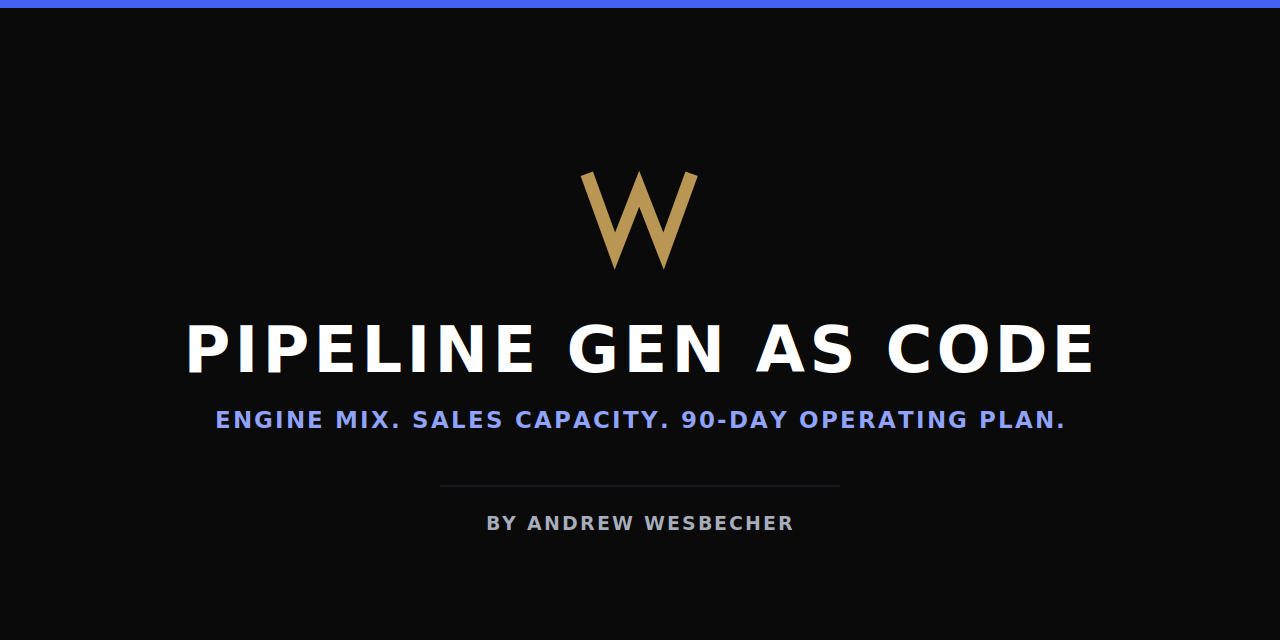
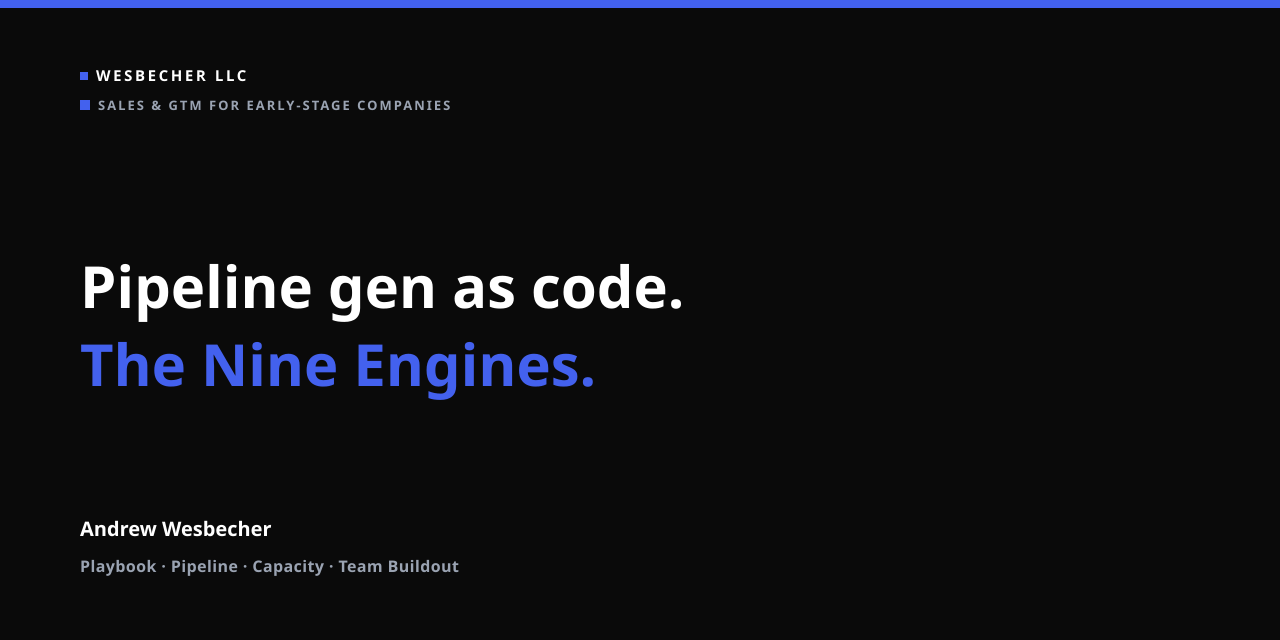
Restyle README diagrams to match wesbecher.llc
Replace the gold-W lockup with the site OG structure, add the
/pipeline/ two-clock portfolio map, and swap the mermaid for a
square-card flow. No model or version change.

diff --git a/README.md b/README.md
@@ -206,6 +206,8 @@ companies run each one, and the numbers that say each is working,
 with each claim indexed to a source or labeled an operator heuristic
 in [docs/SOURCES.md](docs/SOURCES.md).
 
+<img src="assets/portfolio.svg" alt="The nine engines by time to turn on: this quarter versus months to instrument. This model does not convert engine spend into meetings." width="100%">
+
 | # | Engine | Runs when (the model's rule) |
 |---|--------|------------------------------|
 | 01 | [Automated Outbound](playbook/01-automated-outbound.md) | Nearly always; needs one owner |
@@ -231,18 +233,7 @@ several benchmark figures this repository has since corrected. Where
 the two disagree, the repository is right. The page is being brought
 into line.
 
-```mermaid
-flowchart LR
-    P["company/params.yaml<br/>validated, schema v1"] --> M["engine/mix.cjs<br/>nine verdicts + exact split"]
-    P --> C["engine/engine.cjs<br/>seats, ramp, hiring, payroll"]
-    M --> PL["plan/PLAN.md + BOARD.md<br/>with overrides persisted"]
-    C --> PL
-    K["playbook/<br/>nine operating cards"] --> PL
-    PL --> MO["plan/monday.md"]
-    MO --> R["plan/review.md"]
-    R --> MO
-    R -. assumptions changed .-> P
-```
+<img src="assets/flow.svg" alt="company/params.yaml feeds mix.cjs and engine.cjs, which write PLAN.md and BOARD.md from the playbook cards. monday.md and review.md loop weekly. Changed assumptions return to params.yaml." width="100%">
 
 ## Run it
 

diff --git a/CHANGELOG.md b/CHANGELOG.md
@@ -2,6 +2,21 @@
 
 ## Unreleased
 
+README diagrams restyled to the wesbecher.llc tokens and the
+/pipeline/ two-clock layout. Banner and social card drop the gold W
+for the site OG lockup. No model, schema, or version change.
+
+- `assets/banner.svg` and `assets/social-card.svg` (plus the raster
+  `social-card.png`) match the site OG: black field, 8px `#4361EE`
+  bar, blue-square lockup, sentence-case headline, last phrase in
+  blue. Social footer routes are Playbook, Pipeline, Capacity, Team
+  Buildout. No PMF.
+- `assets/portfolio.svg` is the /pipeline/ "portfolio, by time to
+  turn on" block. Footer states the model does not convert engine
+  spend into meetings.
+- `assets/flow.svg` replaces the README mermaid with the same
+  params-to-plan loop, drawn as square cards with a 4px left rule.
+
 Trust and DX pass: kill docs drift, pin the Codex validator, hard-gate
 a skill-only install, and make demand plus cash/runway a permanent
 boundary. No mix or capacity math change. No version bump.
